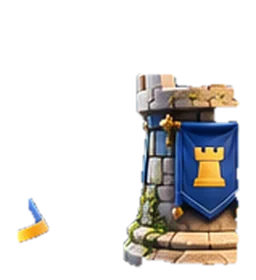
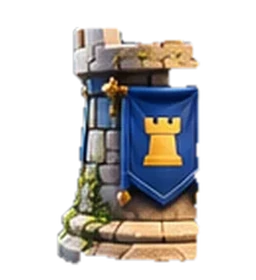
fix: center red rook sprites and fit title artwork on iPhone

diff --git a/assets/arena-ui.css b/assets/arena-ui.css
@@ -130,3 +130,32 @@ body.arena-active .board.character-view .char-sprite.selected{filter:drop-shadow
 body.arena-active .arena-title{-webkit-mask-image:radial-gradient(ellipse 74% 74% at 50% 50%,#000 56%,transparent 99%);mask-image:radial-gradient(ellipse 74% 74% at 50% 50%,#000 56%,transparent 99%)}
 @media (min-width:356px) and (max-width:480px){body.arena-active .top{height:160px}body.arena-active .arena-title{margin-top:46px;max-height:100px}}
 @media(max-width:355px){body.arena-active .top{height:137px}body.arena-active .arena-title{margin-top:41px;max-height:81px}}
+
+/* Menu-specific masthead: arena-active is intentionally absent on the homepage.
+   Without these rules the image falls back to its intrinsic width on an iPhone. */
+body:not(.arena-active) .top{
+  position:relative;display:flex;align-items:center;justify-content:center;
+  box-sizing:border-box;min-height:180px;padding:14px 48px 10px;margin:0 auto;
+}
+body:not(.arena-active) .top>.brand{display:none}
+body:not(.arena-active) .arena-title{
+  display:block;min-width:0;max-width:100%;width:min(420px,100%);
+  height:auto;max-height:156px;object-fit:contain;
+  filter:drop-shadow(0 5px 13px #040916b0);
+  -webkit-mask-image:radial-gradient(ellipse 76% 85% at 50% 50%,#000 59%,transparent 100%);
+  mask-image:radial-gradient(ellipse 76% 85% at 50% 50%,#000 59%,transparent 100%);
+}
+body:not(.arena-active) .top-actions{
+  position:absolute;top:13px;right:0;display:flex;justify-content:flex-end;align-items:center;
+}
+body:not(.arena-active) #characterViewToggle{display:none}
+@media(max-width:480px){
+ body:not(.arena-active) .top{min-height:168px;padding:14px 35px 9px}
+ body:not(.arena-active) .arena-title{width:min(335px,100%);max-height:137px}
+ body:not(.arena-active) .top-actions{top:7px;right:0}
+ body:not(.arena-active) .top-actions #rulesButton{padding:8px 10px;font-size:.76rem}
+}
+@media(max-width:355px){
+ body:not(.arena-active) .top{min-height:145px;padding:11px 38px 5px}
+ body:not(.arena-active) .arena-title{max-height:118px}
+}
